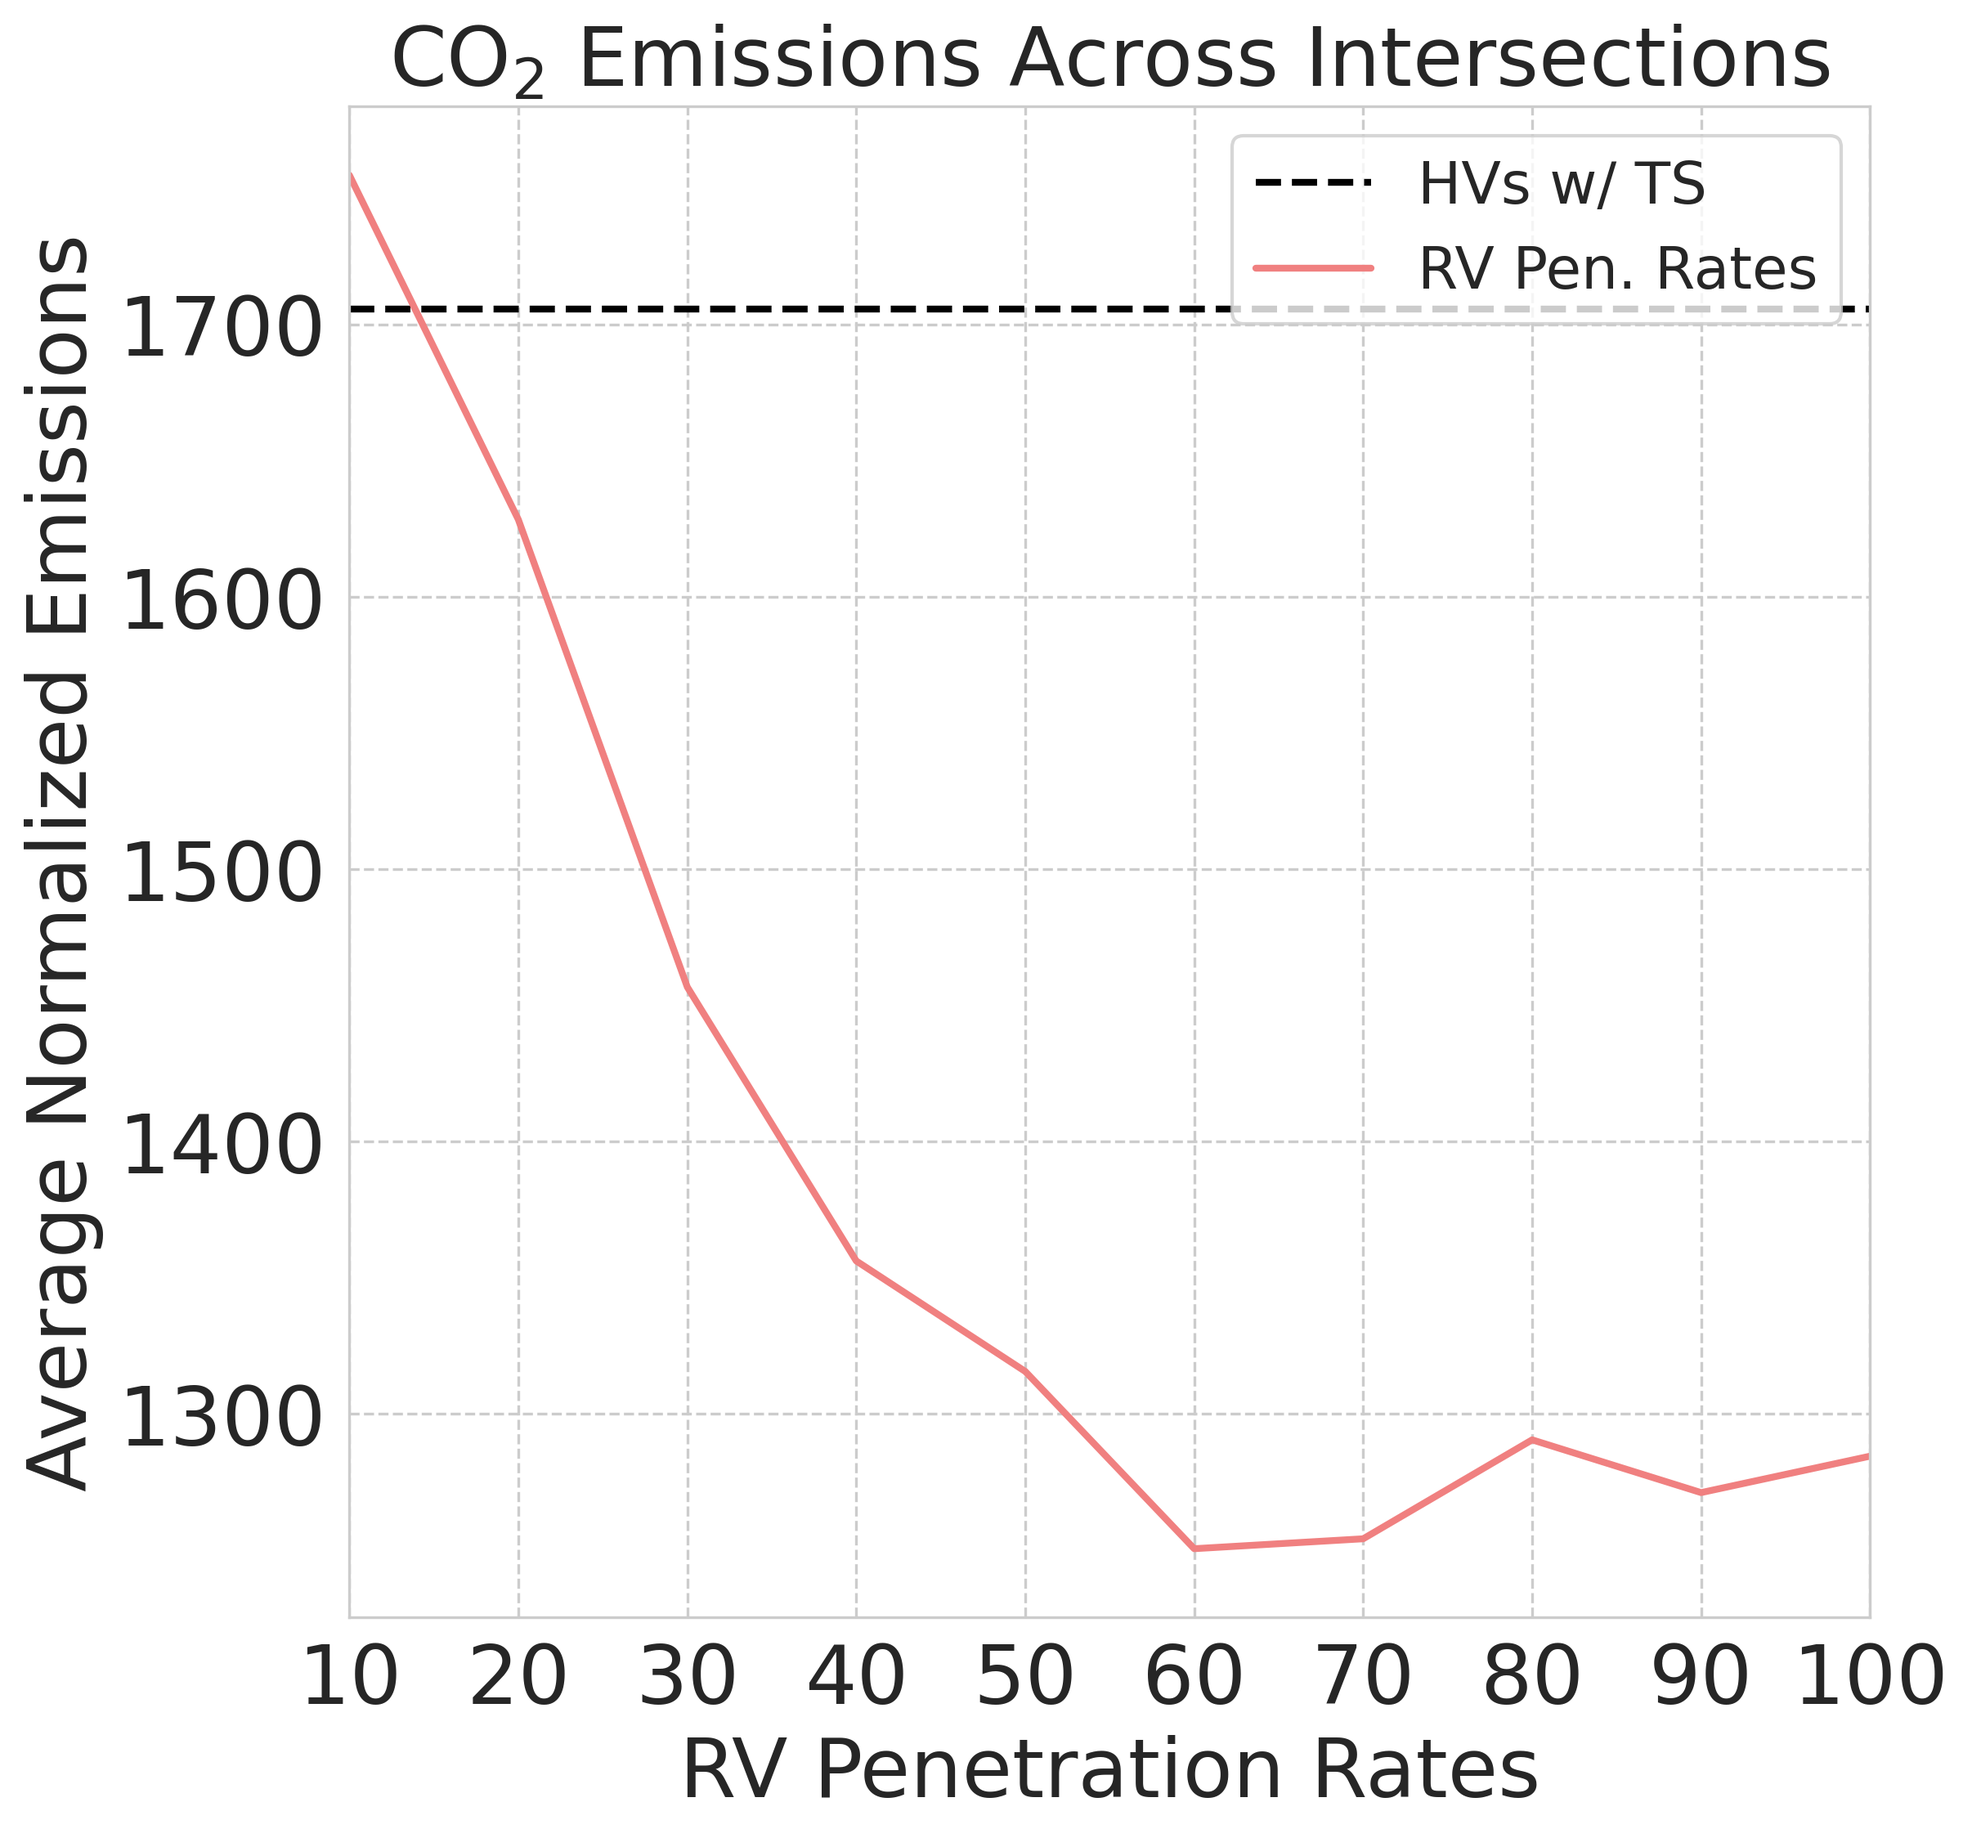
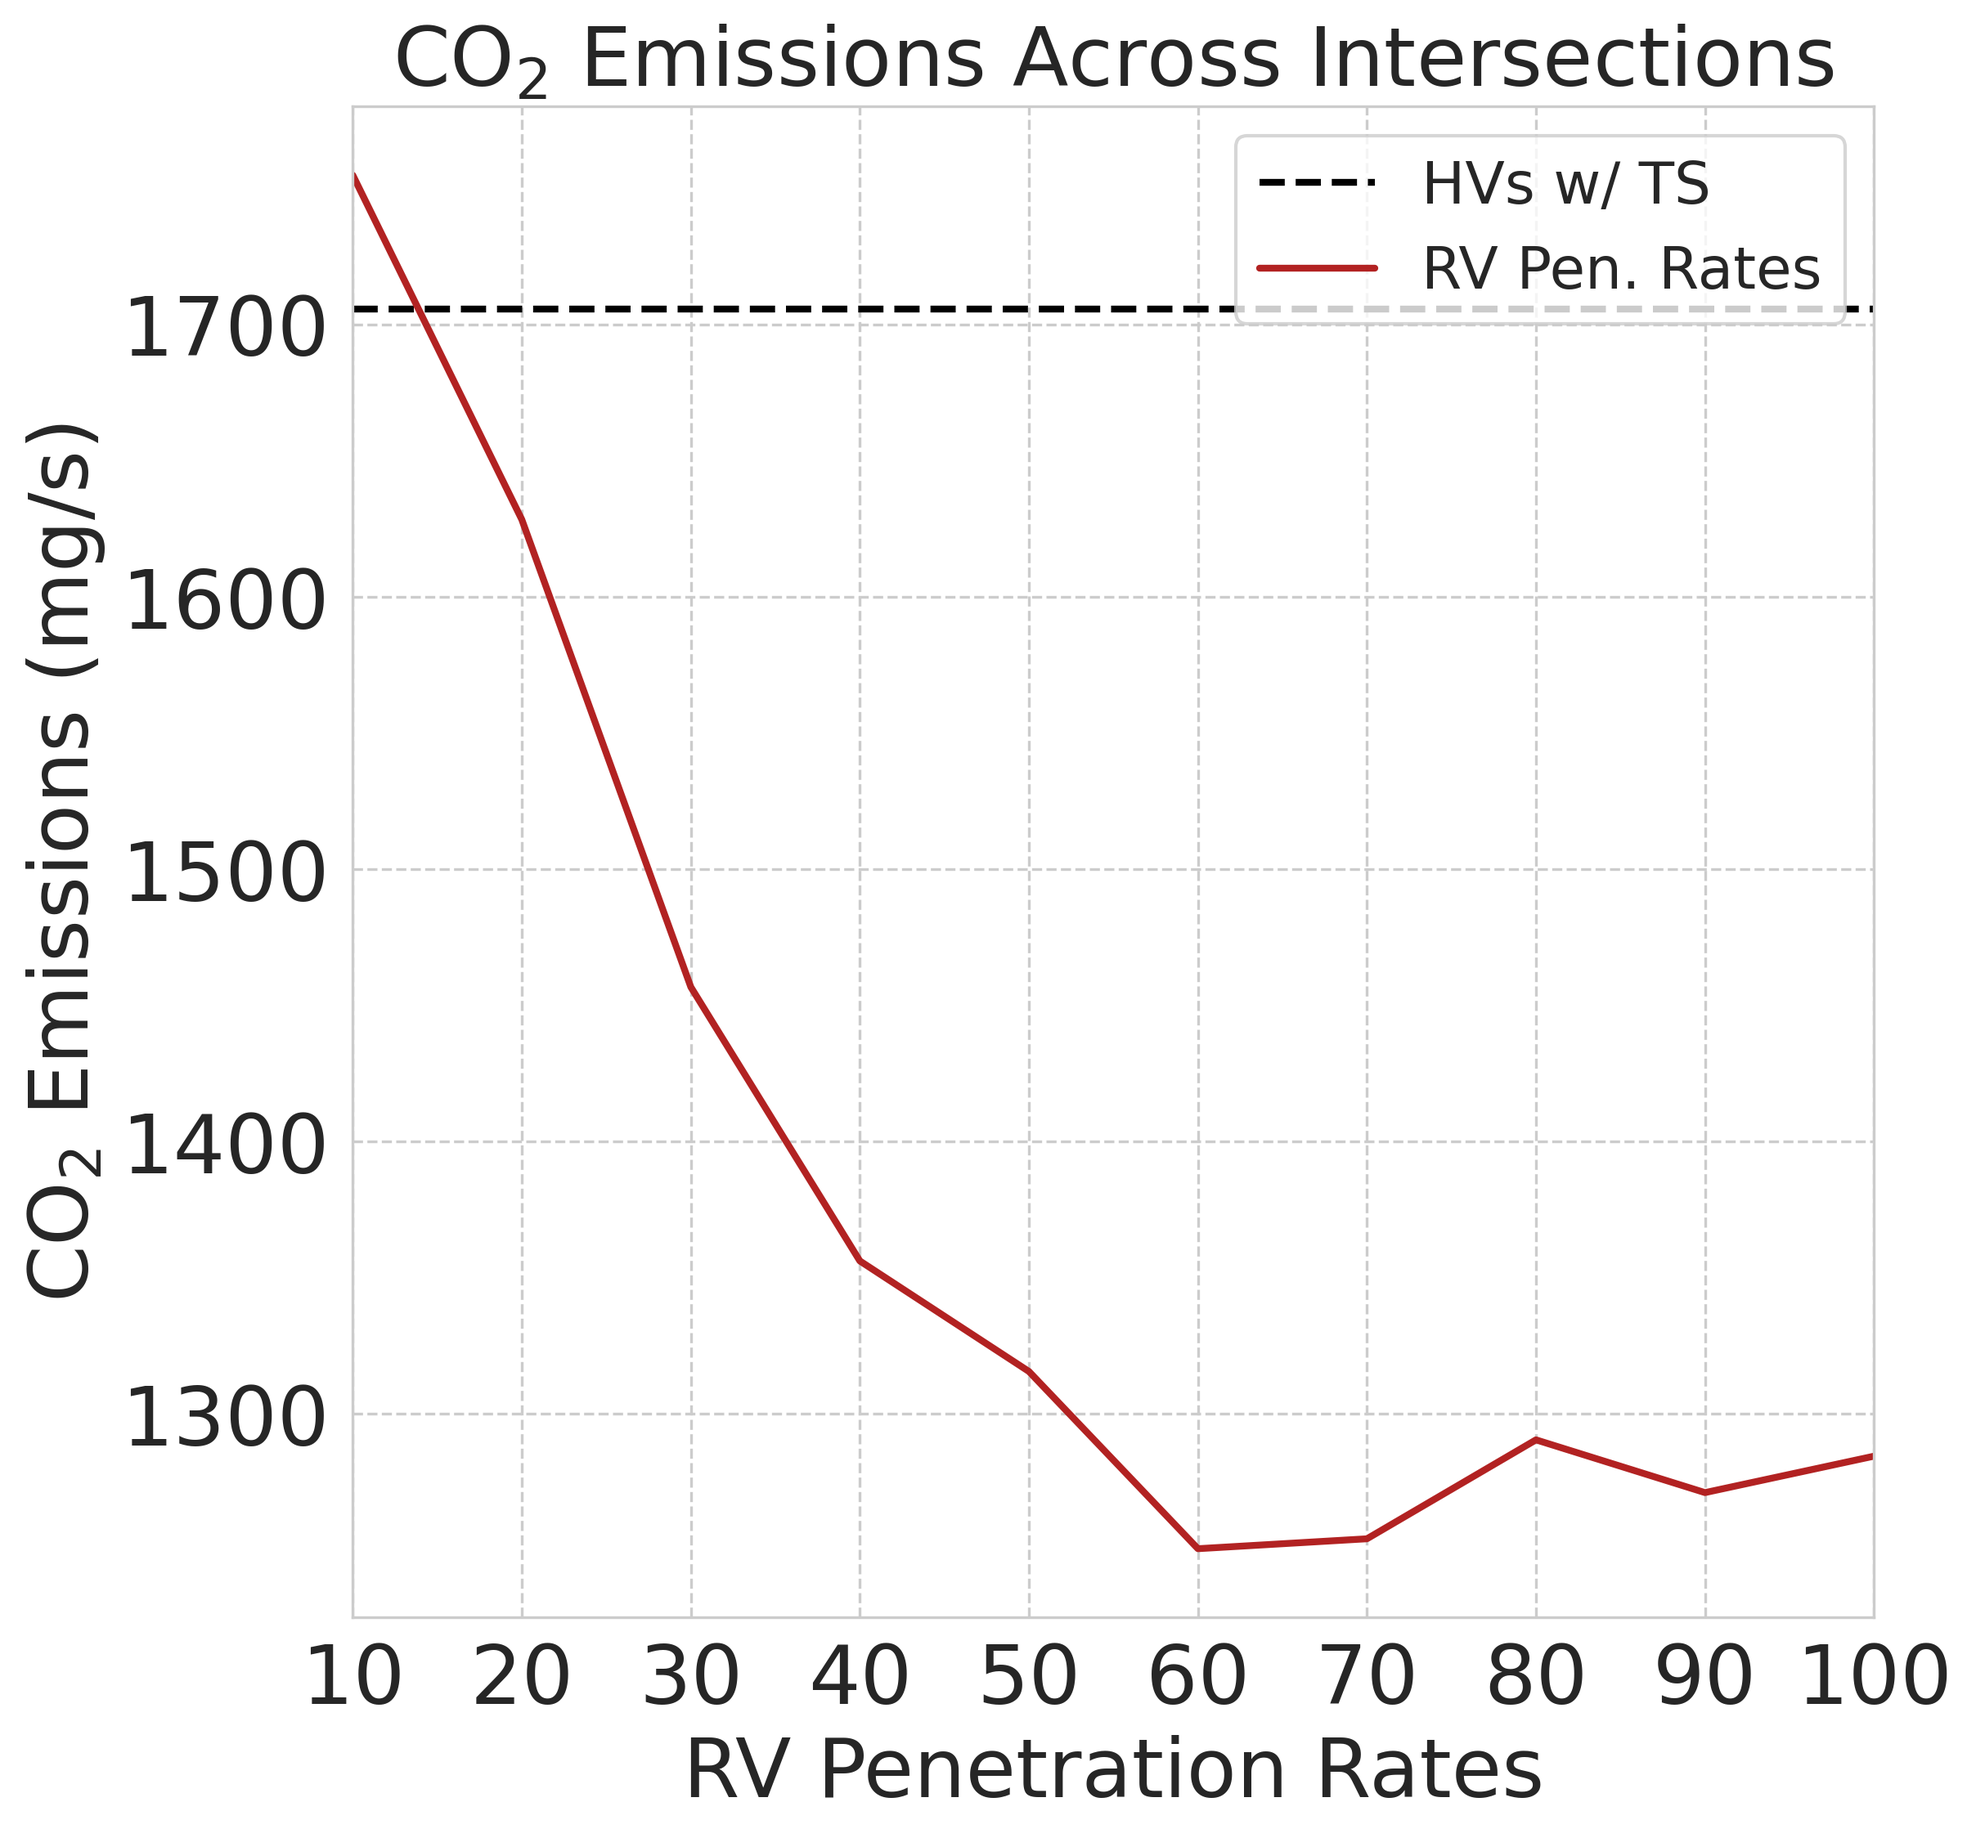
Added co2 emissions

diff --git a/post_process/junc_results_plots.py b/post_process/junc_results_plots.py
@@ -38,7 +38,7 @@ fs = 24
 
 y = [1754.74, 1628.30, 1456.71, 1356.16, 1315.61, 1250.54, 1254.18, 1290.50, 1271.13, 1284.51]
 ax.hlines(1705.53, 10, 100, color="black", label="HVs w/ TS", linestyles="--", linewidth=2)
-ax.plot(x, y, color="lightcoral", label="RV Pen. Rates", linewidth=2)
+ax.plot(x, y, color="firebrick", label="RV Pen. Rates", linewidth=2)
 ax.set_title("CO$_2$ Emissions Across Intersections", fontsize=fs)
 ax.set_ylabel("CO$_2$ Emissions (mg/s)", fontsize=fs)
 
@@ -76,7 +76,7 @@ ax.set_ylabel("CO$_2$ Emissions (mg/s)", fontsize=fs)
 # ax.plot(x, y_nox, color="darkorange", label="NOx Emissions", linewidth=2)
 
 ax.set_xlabel("RV Penetration Rates", fontsize=fs)
-ax.set_ylabel("Average Normalized Emissions", fontsize=fs)
+# ax.set_ylabel("Average Normalized Emissions", fontsize=fs)
 ax.set_xlim(10, 100)
 plt.xticks(fontsize=fs)
 plt.yticks(fontsize=fs)
